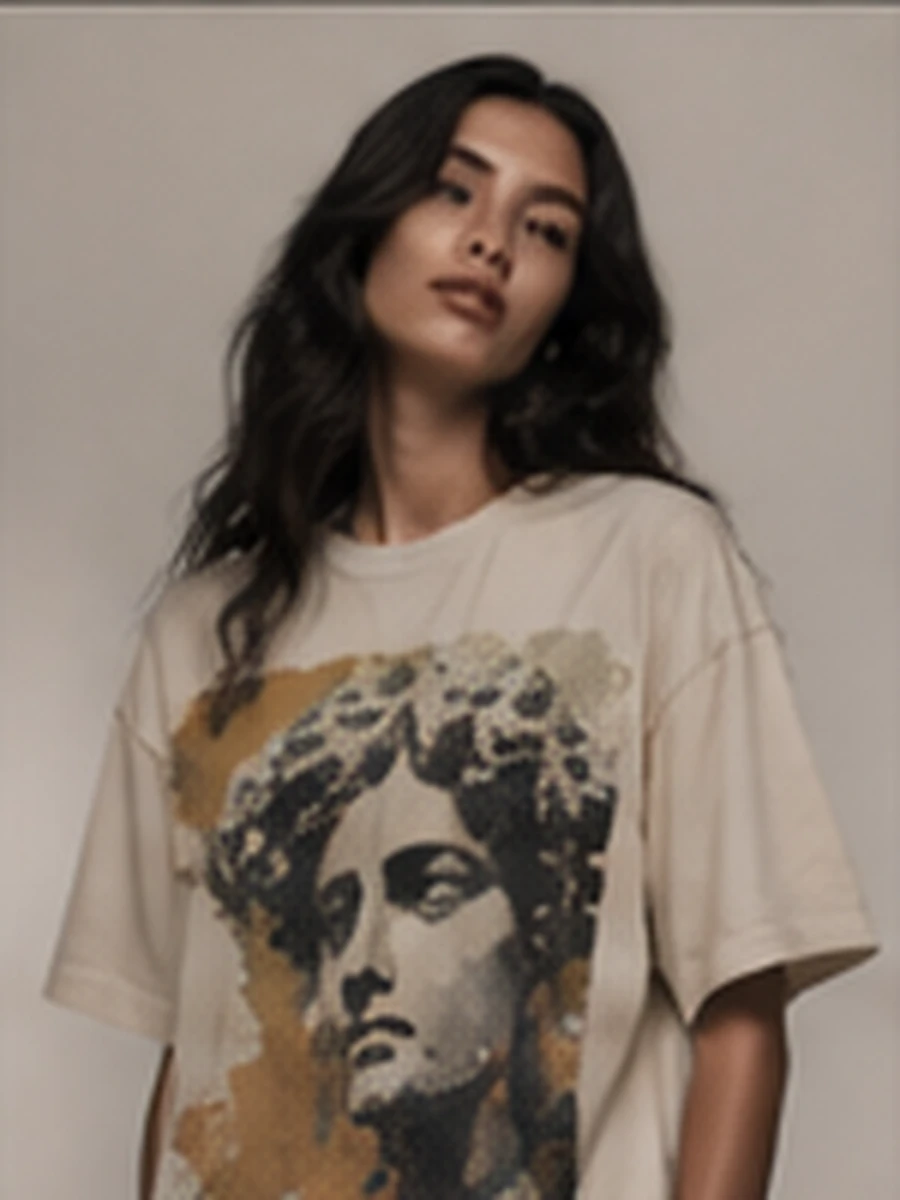
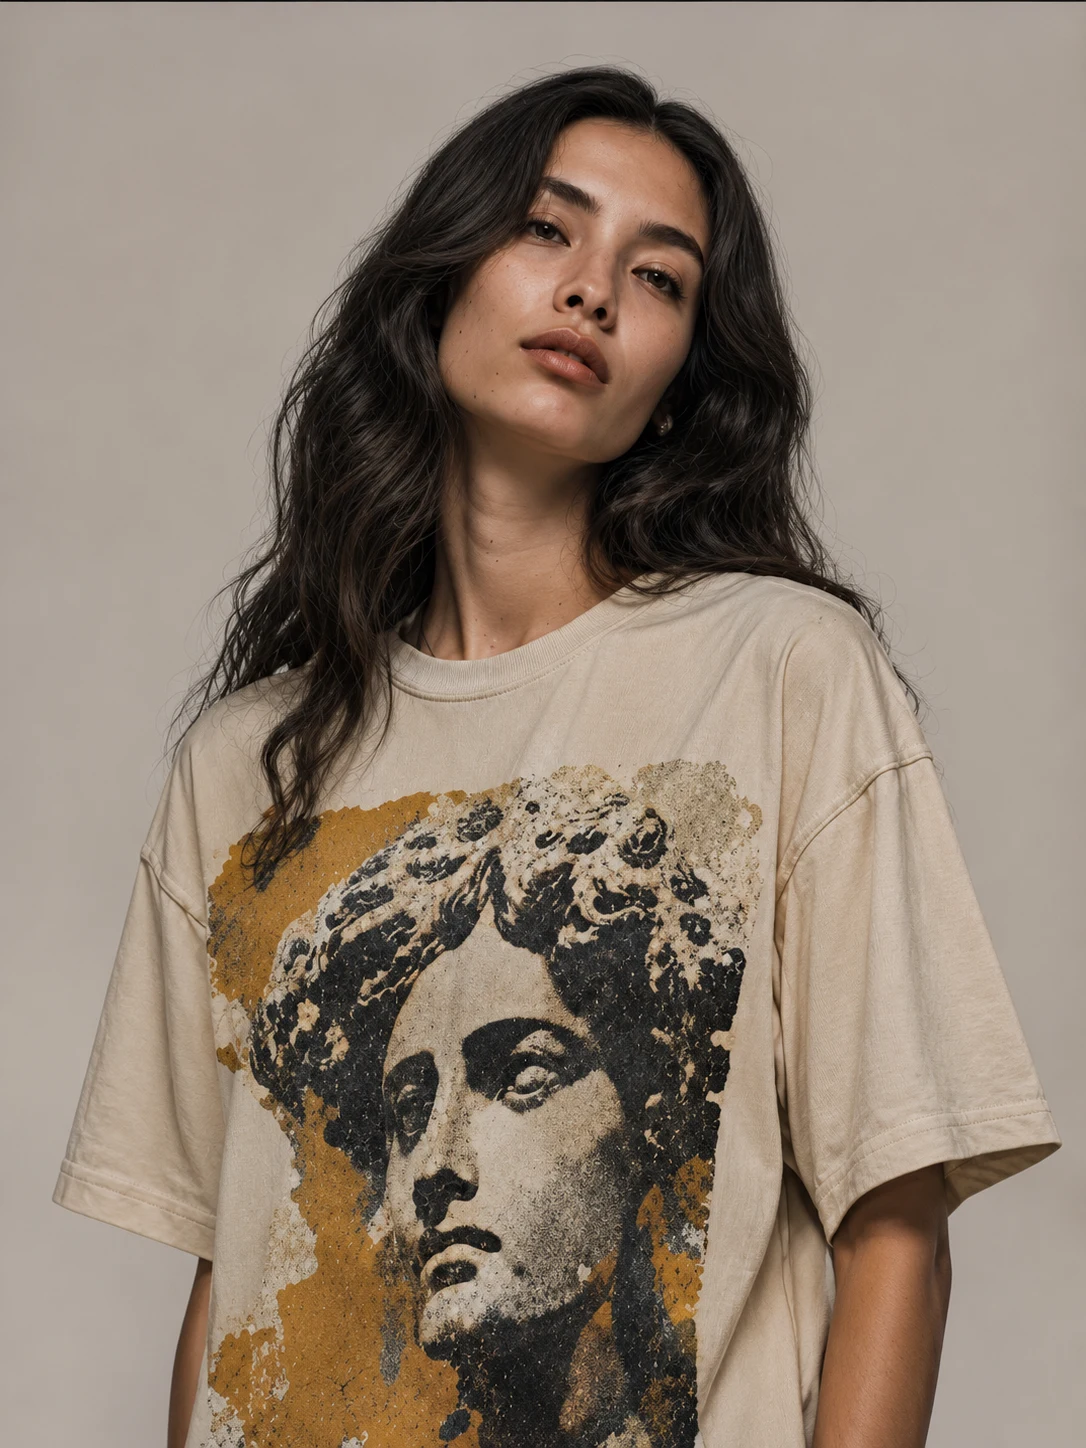
Hi-res faithful upscales of the reference photos; Virtue shows cream by default and the dark tee on Washed black

diff --git a/storefront/src/components/product-view.tsx b/storefront/src/components/product-view.tsx
@@ -13,8 +13,8 @@ const money = (cents: number) => new Intl.NumberFormat("en-US", { style: "curren
 
 // Bone product page as in the mock: gallery left, title, price, colour swatches,
 // sizes, size guide, ADD TO BAG, description, bullets and thumbnails.
-export function ProductView({ title, price, blurb, bullets, photos, colours, sizes, variants }: {
-  title: string; price: number; blurb: string; bullets: string[]; photos: string[]; colours: Colour[]; sizes: string[]; variants: Variant[];
+export function ProductView({ title, price, blurb, bullets, photos: defaultPhotos, photosByColour, colours, sizes, variants }: {
+  title: string; price: number; blurb: string; bullets: string[]; photos: string[]; photosByColour?: Record<string, string[]>; colours: Colour[]; sizes: string[]; variants: Variant[];
 }) {
   const [colour, setColour] = useState(colours[0]?.name ?? "");
   const [size, setSize] = useState("");
@@ -22,6 +22,7 @@ export function ProductView({ title, price, blurb, bullets, photos, colours, siz
   const [missing, setMissing] = useState(false);
   const [state, action, pending] = useActionState<ActionState, FormData>(addToCart, null);
   const sizeRef = useRef<HTMLDivElement>(null);
+  const photos = photosByColour?.[colour] ?? defaultPhotos;
   const selected = variants.find((v) => v.options[0] === colour && v.options[1] === size);
   const [first, second] = [shot, (shot + 1) % photos.length];
   return (
@@ -55,7 +56,7 @@ export function ProductView({ title, price, blurb, bullets, photos, colours, siz
           <input type="hidden" name="quantity" value={1} />
           <div role="group" aria-label={`Colour: ${colour}`} className="flex items-center gap-1">
             {colours.map((c) => (
-              <button key={c.id} type="button" onClick={() => setColour(c.name)} aria-label={c.name} aria-pressed={c.name === colour} className="flex size-11 items-center justify-center">
+              <button key={c.id} type="button" onClick={() => { setColour(c.name); setShot(0); }} aria-label={c.name} aria-pressed={c.name === colour} className="flex size-11 items-center justify-center">
                 <span className={`block size-[22px] rounded-full border border-ink/30 ${c.name === colour ? "outline outline-2 outline-offset-2 outline-ink" : ""}`} style={{ background: c.hex }} />
               </button>
             ))}

diff --git a/storefront/src/lib/store.ts b/storefront/src/lib/store.ts
@@ -22,6 +22,7 @@ export type Product = {
   price: number;
   image: string;
   photos: string[];
+  photosByColour?: Record<string, string[]>;
   kind: Kind;
 };
 
@@ -64,6 +65,7 @@ function toProduct(remote: Remote): Product | null {
     price: Math.min(...variants.map((v) => v.price)),
     image: imageOf(remote.handle),
     photos: meta.photos,
+    photosByColour: (meta as { photosByColour?: Record<string, string[]> }).photosByColour,
     kind: kindOf(remote.handle),
   };
 }

diff --git a/storefront/src/app/products/[handle]/page.tsx b/storefront/src/app/products/[handle]/page.tsx
@@ -26,6 +26,7 @@ export default async function ProductPage({ params }: Props) {
           blurb={product.blurb}
           bullets={product.bullets}
           photos={product.photos}
+          photosByColour={product.photosByColour}
           colours={product.colours}
           sizes={product.sizes}
           variants={product.variants}
